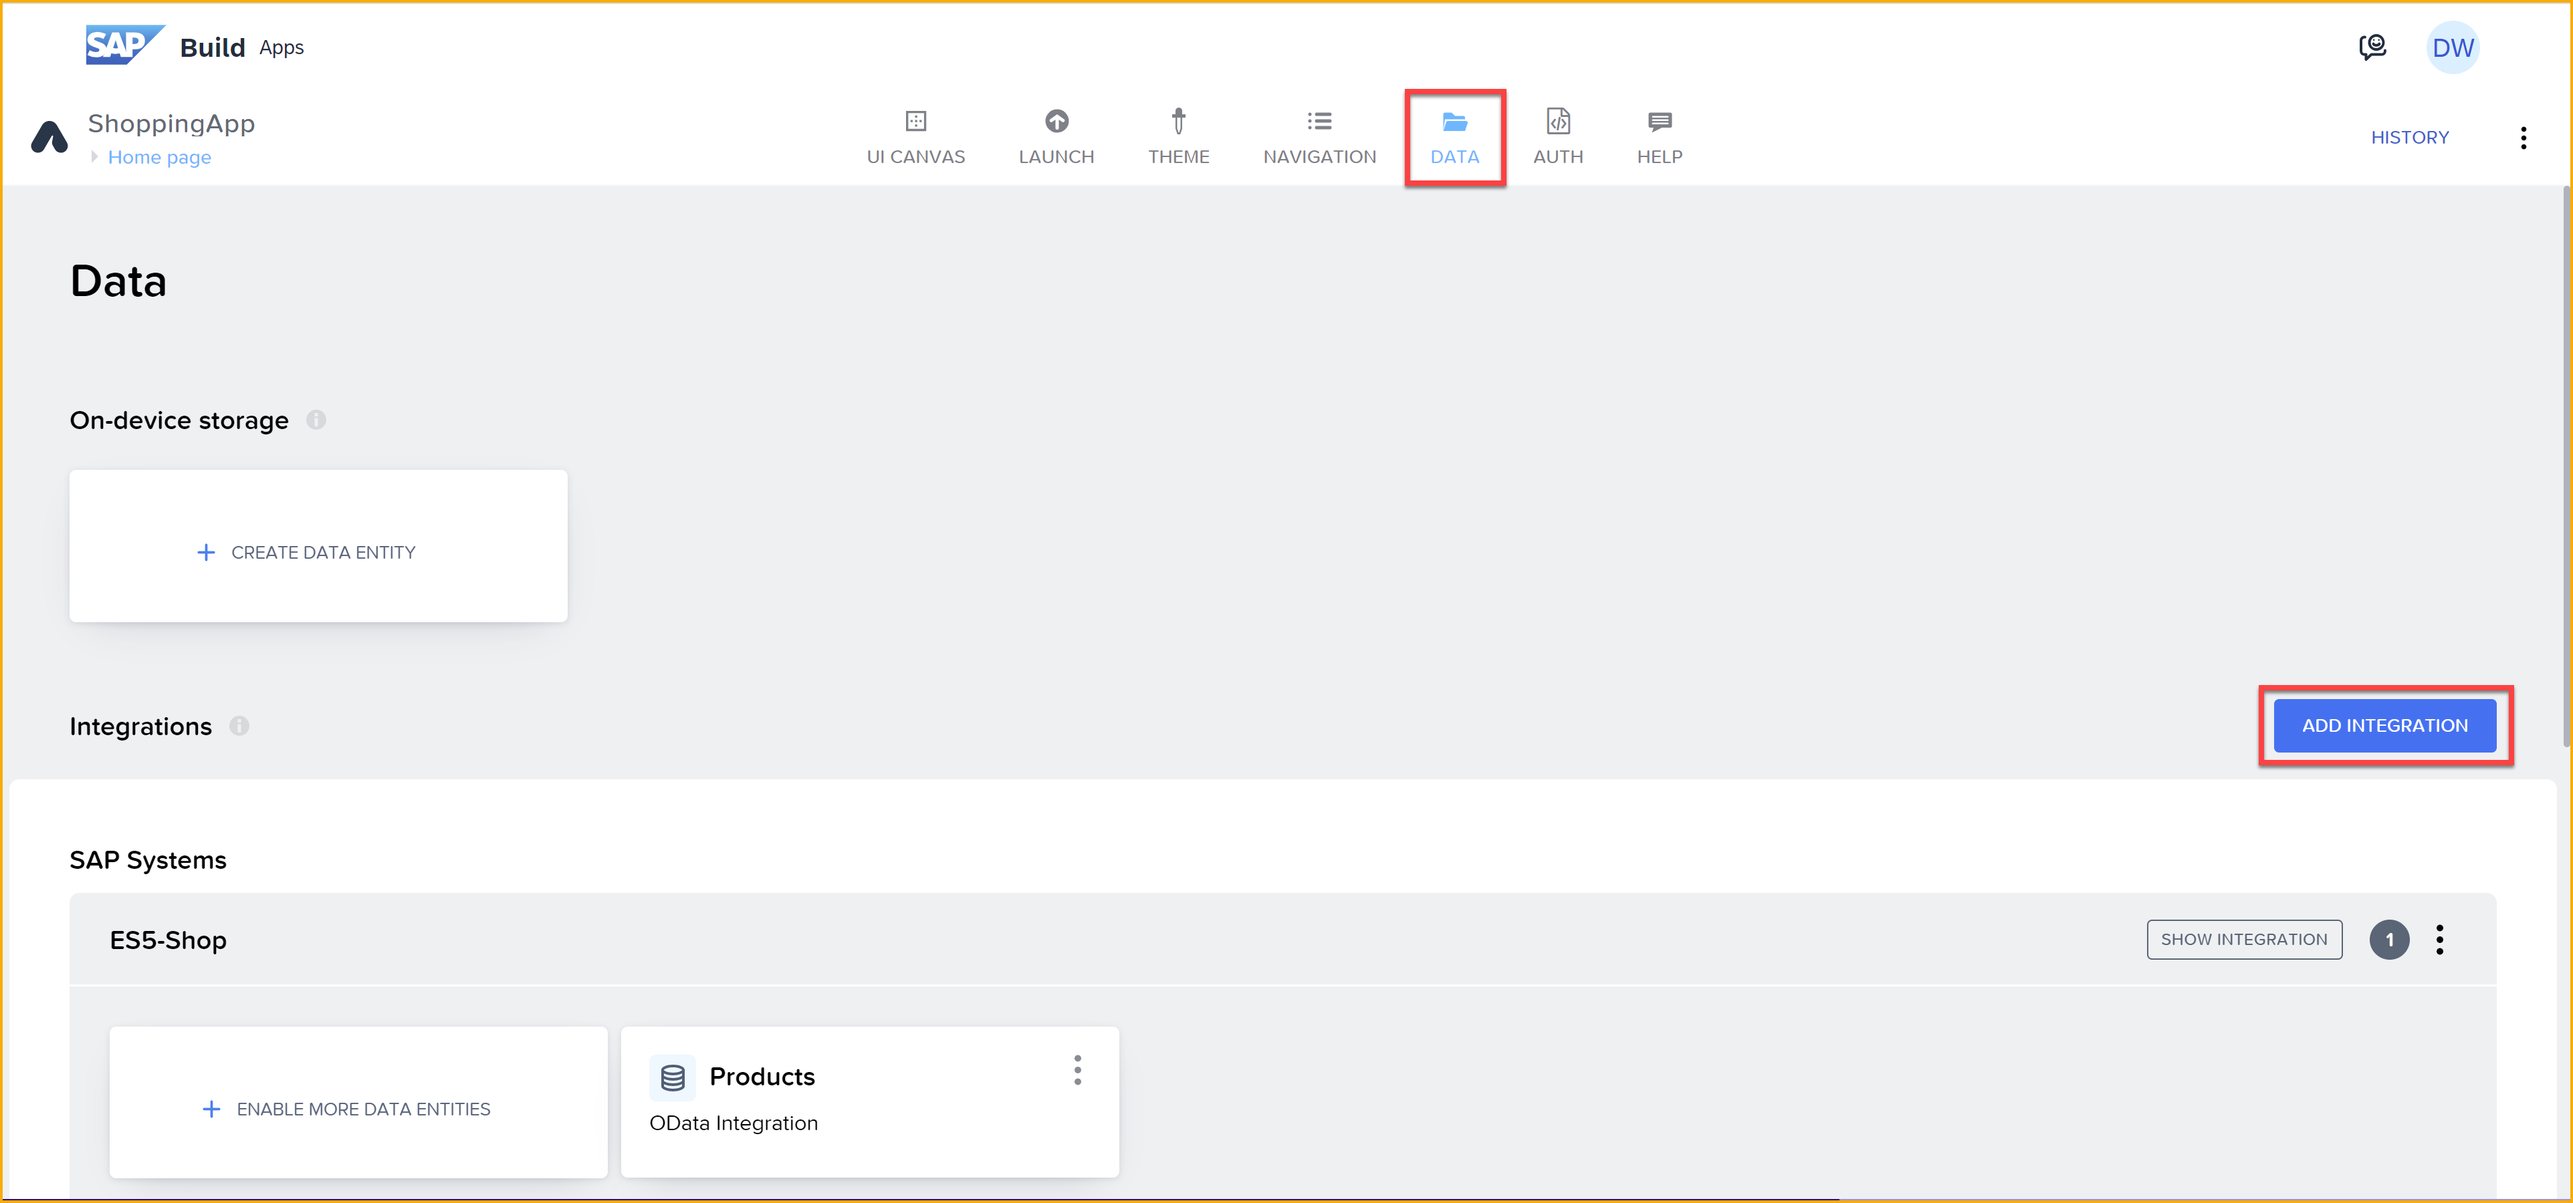
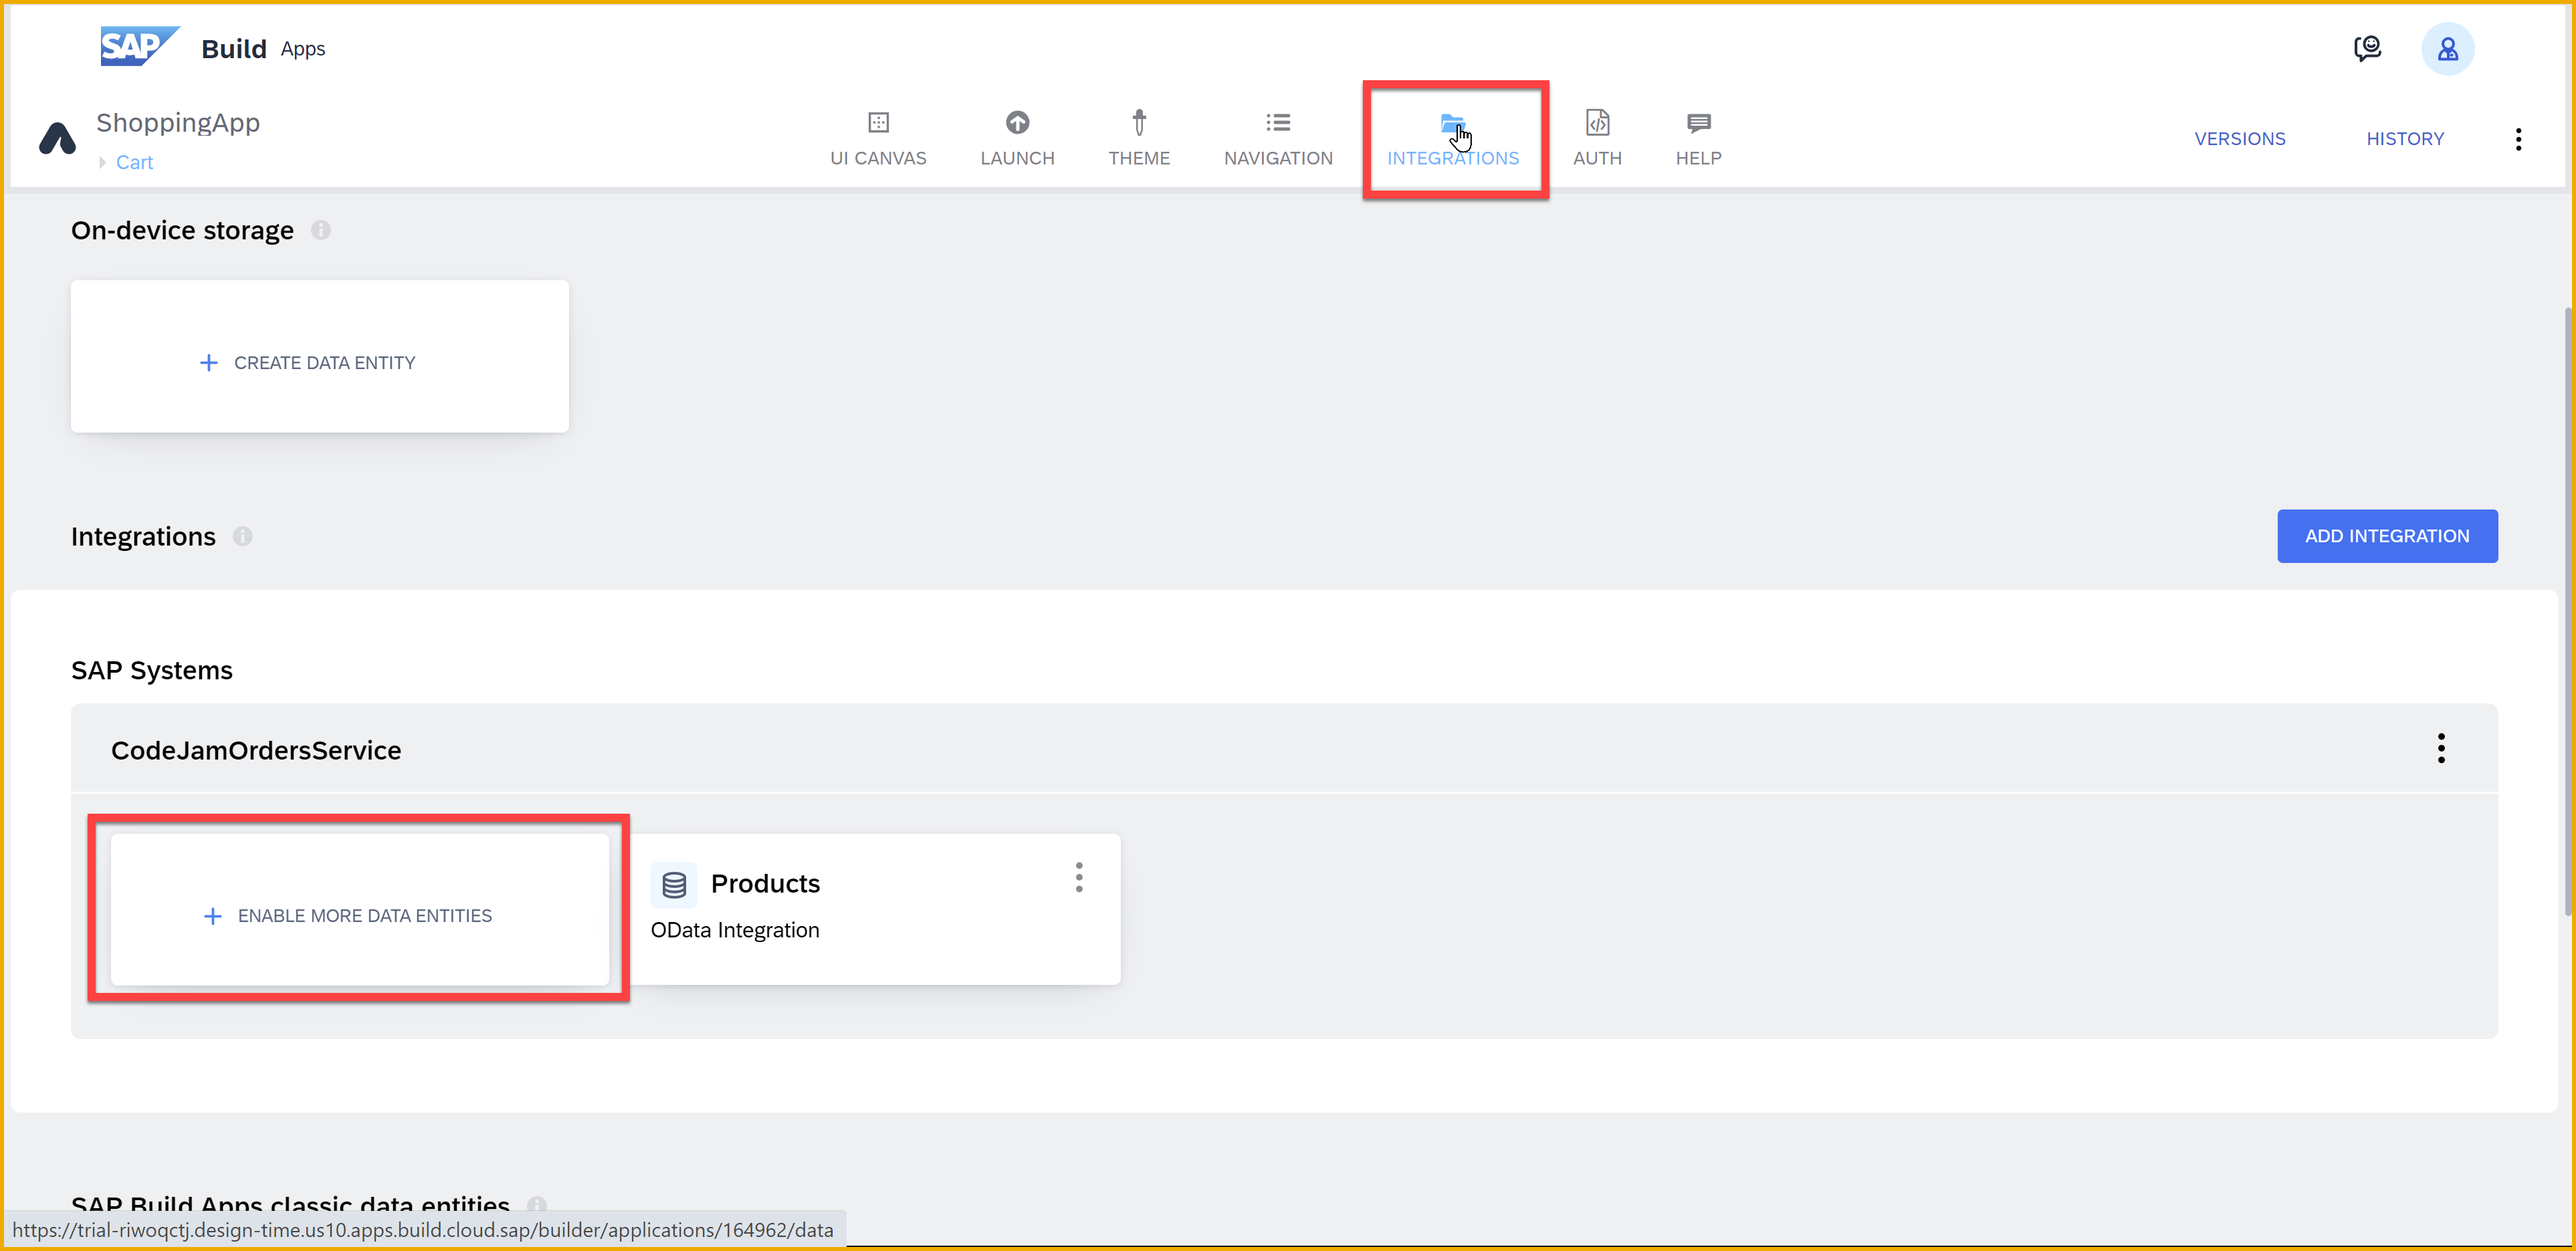
Updates for new UI - CodeJam

diff --git a/tutorials/codejam-03-cart-page/codejam-03-cart-page.md b/tutorials/codejam-03-cart-page/codejam-03-cart-page.md
@@ -52,27 +52,26 @@ You will:
 
 
 ### Create data resource for CAP service
-In order to fetch data from the CAP service, you need to create a data resource for the CAP service.
+Previously, we made a data resource to the CAP service and enabled the **Products** entity. Now we need some other entities.
 
-1. Back in your **ShoppingApp** project, open the **Data** tab.
 
-    Click **Add Integration**.
+1. Back in your **ShoppingApp** project, open the **Integrations** tab.
+
+2. Look **SAP Systems**, and under **CodeJamOrdersService**
+
+    Click **Enable More Data Entities**.
 
     ![Data resource](images/resource-1.png)
 
-2. Click **BTP Destinations**, and then select the **CodeJamOrdersService** destination.
-
+3. Select **Orders**, and click **Enable Data Entity**.
+   
     ![Destination](images/resource-2.png)
 
-    You will see a list of entities for this OData service.
+    Select **OrderItems**, and click **Enable Data Entity**.
 
-3. With the **Orders** entity selected, click **Enable Data Entity**.
+    ![Data resource](images/resource-3.png)
 
-    ![Enable entity](images/resource-4.png)
-
-4. With the **OrderItems** entity selected, click **Enable Data Entity**.
-
-5. Click **Save** (upper right).
+4. Click **Save** (upper right).
 
     Click **Exit** to return to the previous screen. 
    
@@ -182,7 +181,7 @@ In order to display the data in the cart from the **OrderItems** entity, you nee
     >
     >The formula uses the **MAP** function, one of the more powerful and useful functions. Here, the function goes through all the order items, multiplies the quantity and the price, and creates a new list with just integers representing the total cost of each item.
     >
-    >The **SUM** function then ads it all together, and then the formula formats the result.
+    >The **SUM** function then adds it all together, and then the formula formats the result.
 
     Click **Save** twice. 
 
